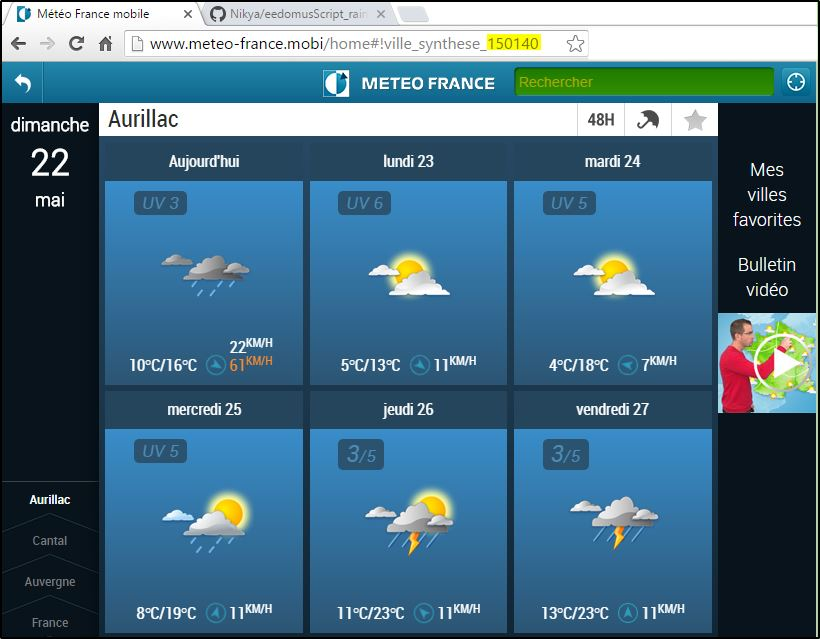
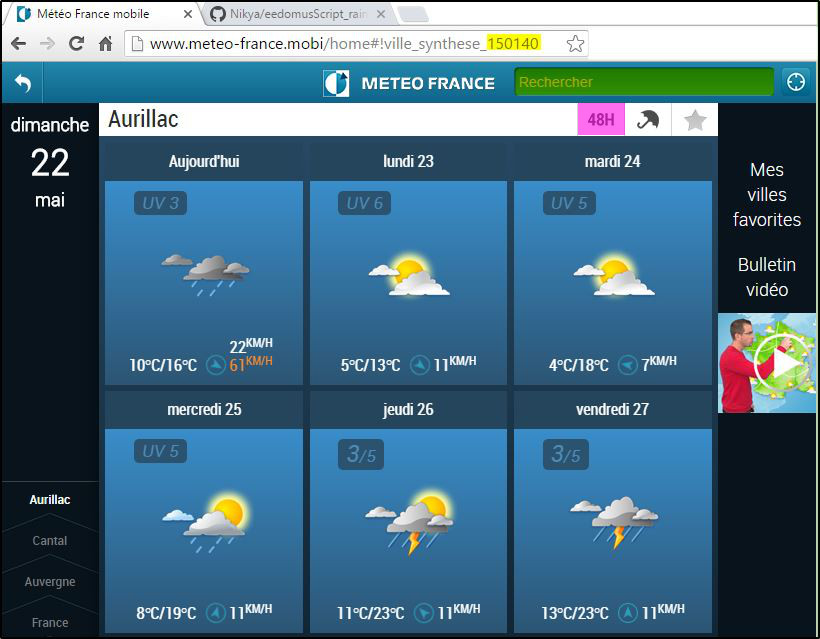
Hightlight 48h

diff --git a/README.md b/README.md
@@ -10,7 +10,7 @@ Auteur : [Nikya](https://github.com/Nikya)
 
 Il permet de connaitre les prévisions pluvieuses des `x` prochaines heures (de 3 à 48h).
 
-Il se base sur les prévisions de [Météo France](http://www.meteo-france.mobi/home#!france)
+Il se base sur les *prévisions à 48h* de [Météo France](http://www.meteo-france.mobi/home#!france)
 
 ## Installation
 1. Télécharger le projet sur GitHub : [github.com/Nikya/eedomusScript_rainTrend](https://github.com/Nikya/eedomusScript_rainTrend/archive/master.zip)
